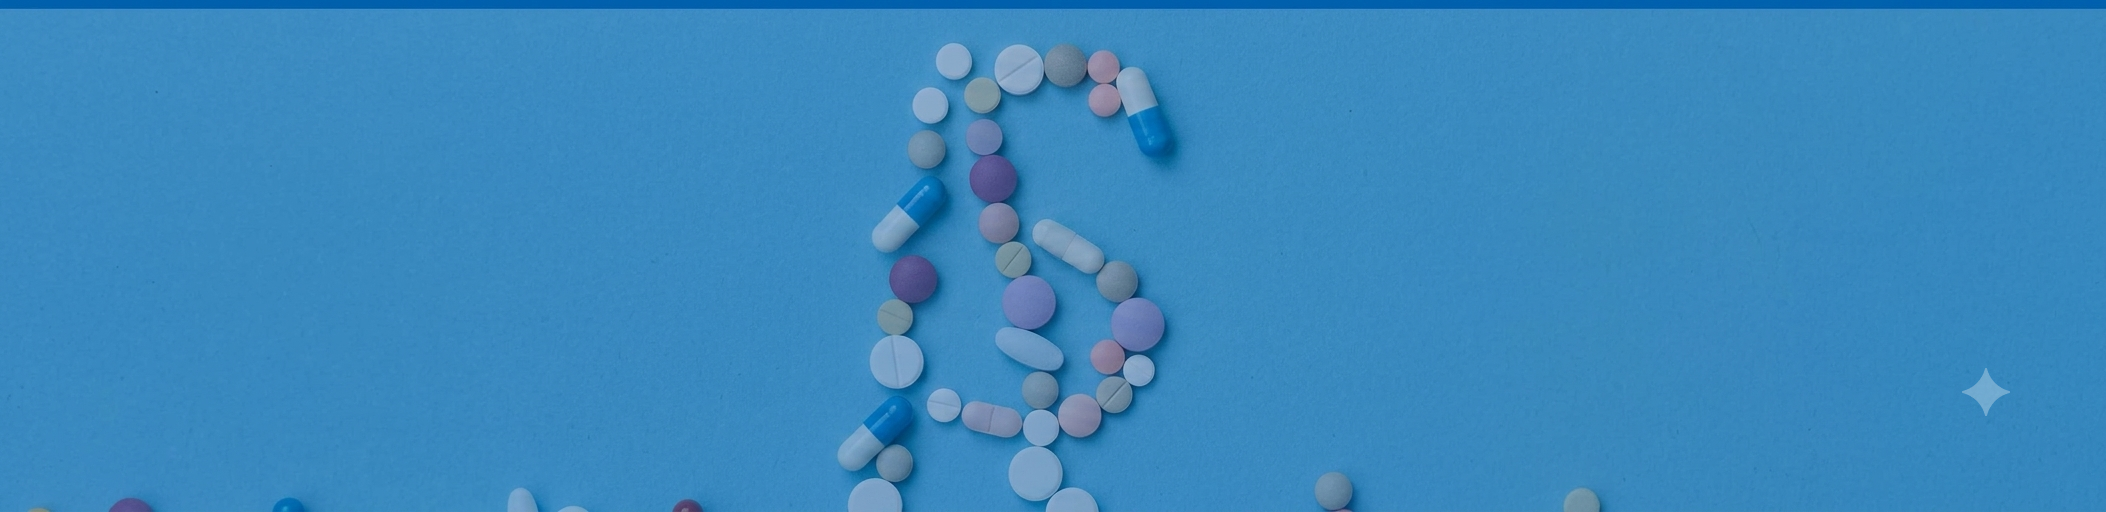
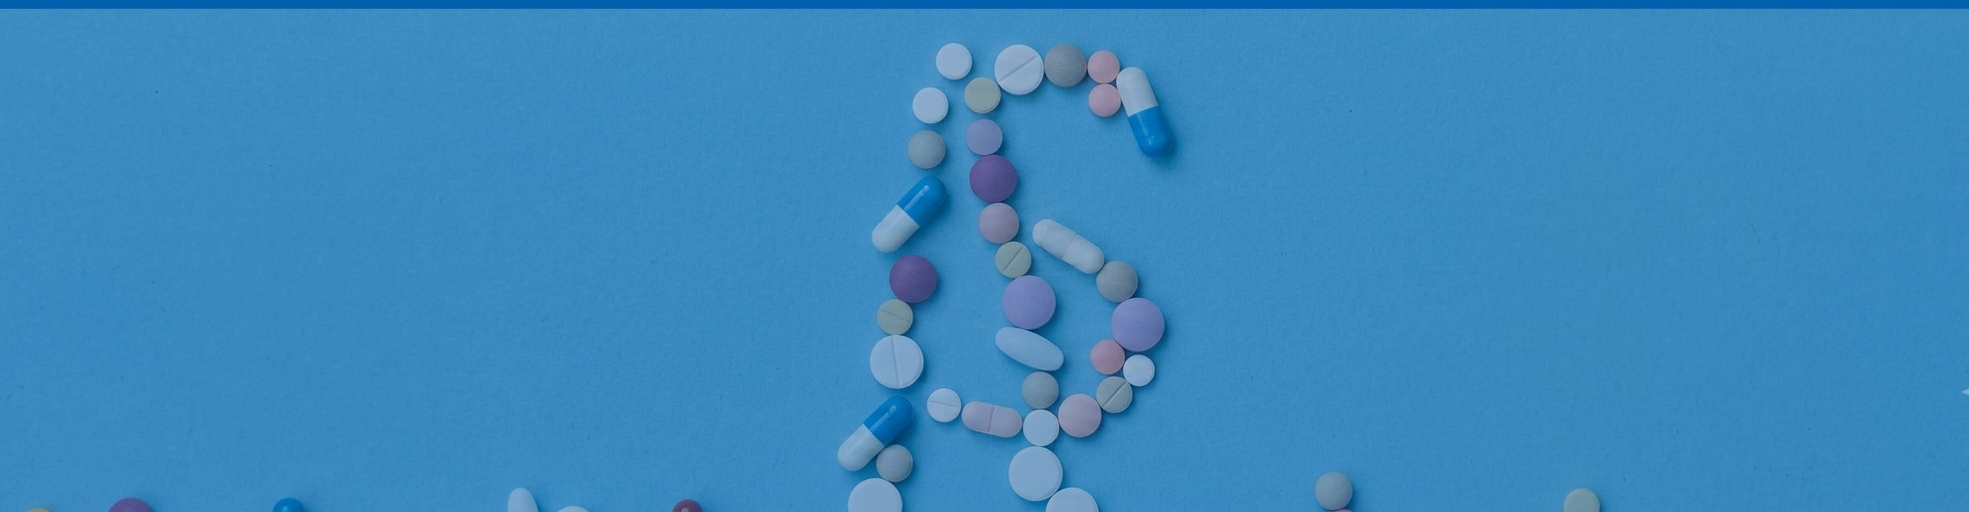
chnage for the new image quelity

diff --git a/app/page.tsx b/app/page.tsx
@@ -3,7 +3,7 @@ import AboutUs from "@/app/components/home/About";
 import Services from "@/app/components/home/Services";
 import Choose from "@/app/components/home/Choose";
 import Products from "@/app/components/home/Products";
-import Stats from "@/app/components/home/Stats";
+
 import Testimonials from "@/app/components/home/Testimonials";
 import Insights from "@/app/components/home/Insights";
 
@@ -15,7 +15,7 @@ export default function Home() {
       <Services />
       <Choose />
       <Products />
-      {/* <Stats /> */}
+      
       <Testimonials />
       <Insights />
     </>

diff --git a/app/services/[slug]/page.tsx b/app/services/[slug]/page.tsx
@@ -108,7 +108,7 @@ export default async function ServiceDetailPage({
                   Talk to our experts and get a tailored proposal.
                 </p>
                 <ButtonLink href="/contact" variant="teal" className="mt-5">
-                  Send Enquiry
+                  Contact Us
                 </ButtonLink>
               </div>
             </Reveal>
